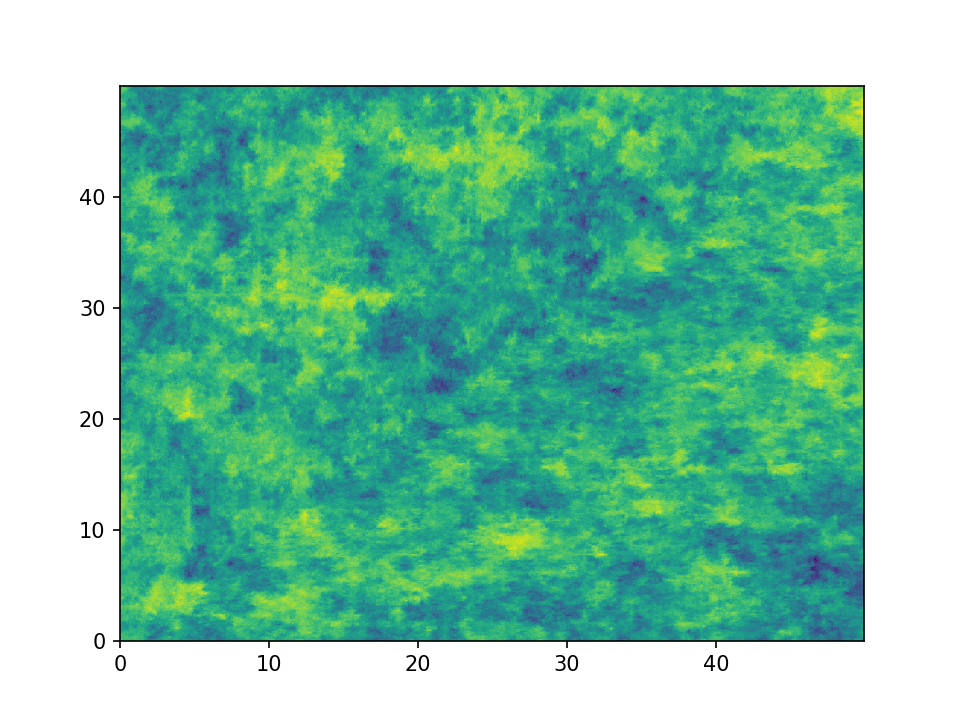
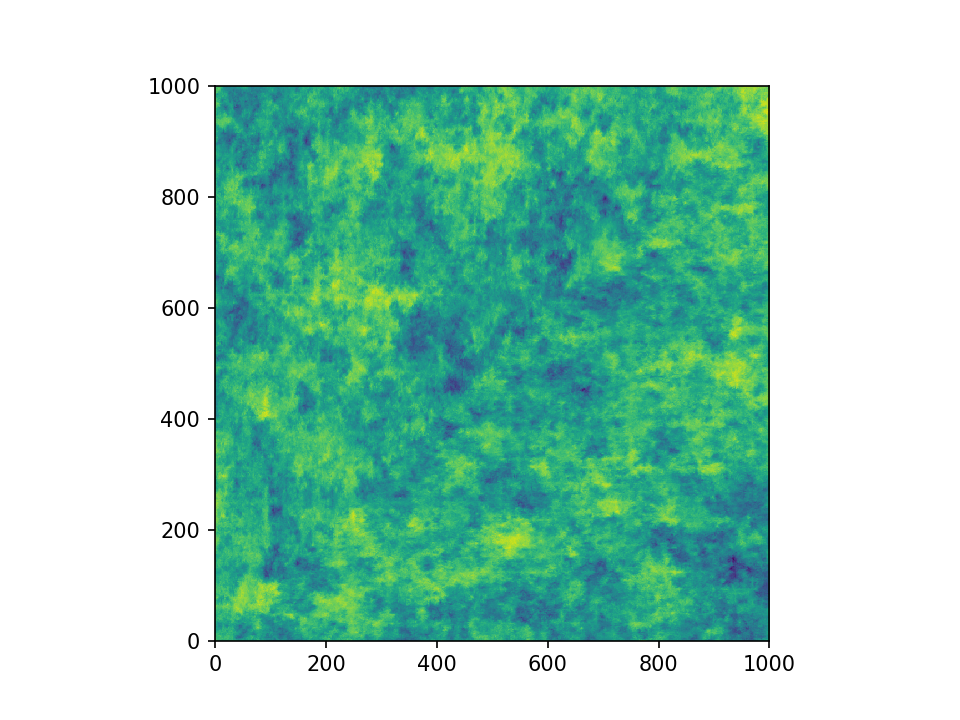
Restructured the tutorials and updated them

diff --git a/examples/08_variogram_estimation.py b/examples/08_variogram_estimation.py
@@ -70,7 +70,7 @@ herten_log_trans = np.log(np.sum(herten_cond, axis=2) * grid['dz'])
 x_s = np.arange(grid['ox'], grid['nx']*grid['dx'], grid['dx'])
 y_s = np.arange(grid['oy'], grid['ny']*grid['dy'], grid['dy'])
 
-pt.pcolormesh(x_s, y_s, herten_log_trans.T)
+pt.imshow(herten_log_trans.T, origin='lower', aspect='equal')
 pt.show()
 
 # create an unstructured grid for the variogram estimation

diff --git a/docs/source/tutorial_03_vario.rst b/docs/source/tutorial_03_vario.rst
@@ -1,4 +1,4 @@
-Tutorial 3: Variogram estimation
+Tutorial 3: Variogram Estimation
 ================================
 
 Estimating the spatial correlations is an important part of geostatistics.
@@ -146,7 +146,7 @@ Let's have a look at the transmissivity field of the Herten aquifer
 
 .. code-block:: python
 
-    pt.pcolormesh(x_s, y_s, herten_log_trans.T)
+    pt.imshow(herten_log_trans.T, origin='lower', aspect='equal')
     pt.show()
 
 .. image:: pics/vario_tut_herten.png
@@ -167,16 +167,16 @@ simply flatten it with :any:`numpy.ndarray.flatten`, in order to bring it into
 the right shape. It might be more memory efficient to use
 ``herten_log_trans.reshape(-1)``, but for better readability, we will stick to
 :any:`numpy.ndarray.flatten`. Taking all data points into account would take a
-very long time (expert knowledge \*twinkle\*), thus we will only take 2000 datapoints into account, which are sampled randomly. In order to make the exact
+very long time (expert knowledge \*wink\*), thus we will only take 2000 datapoints into account, which are sampled randomly. In order to make the exact
 results reproducible, we can also set a seed.
 
 .. code-block:: python
 
-    from gstools import estimate_unstructured
+    from gstools import vario_estimate_unstructured
 
     bins = np.linspace(0, 10, 50)
     print('Estimating unstructured variogram')
-    bin_center, gamma = estimate_unstructured(
+    bin_center, gamma = vario_estimate_unstructured(
         (x_u, y_u),
         herten_log_trans.flatten(),
         bins,
@@ -251,10 +251,10 @@ the x- and y-axis
 
 .. code-block:: python
 
-    from gstools import estimate_structured
+    from gstools import vario_estimate_structured
     print('Estimating structured variograms')
-    gamma_x = estimate_structured(herten_trans_log, direction='x')[:21]
-    gamma_y = estimate_structured(herten_trans_log, direction='y')[:21]
+    gamma_x = vario_estimate_structured(herten_trans_log, direction='x')[:21]
+    gamma_y = vario_estimate_structured(herten_trans_log, direction='y')[:21]
 
 With these two estimated variograms, we can start fitting :any:`Exponential`
 covariance models

diff --git a/docs/source/index.rst b/docs/source/index.rst
@@ -6,8 +6,9 @@ GSTools Quickstart
    :width: 150px
    :align: center
 
-GeoStatTools is a library providing geostatistical tools for random field generation and
-variogram estimation based on a list of provided or even user-defined covariance models.
+GeoStatTools provides geostatistical tools for random field generation and
+variogram estimation based on many readily provided and even user-defined
+covariance models.
 
 
 Installation

diff --git a/docs/source/tutorial_01_srf.rst b/docs/source/tutorial_01_srf.rst
@@ -1,4 +1,4 @@
-Tutorial 2: Random Field Generation
+Tutorial 1: Random Field Generation
 ===================================
 
 The main feature of GSTools is the spatial random field generator :any:`SRF`,

diff --git a/docs/source/tutorials.rst b/docs/source/tutorials.rst
@@ -8,6 +8,6 @@ explore its whole beauty and power.
 .. toctree::
    :maxdepth: 1
 
-   tutorial_01_cov.rst
-   tutorial_02_srf.rst
+   tutorial_01_srf.rst
+   tutorial_02_cov.rst
    tutorial_03_vario.rst

diff --git a/docs/source/tutorial_02_cov.rst b/docs/source/tutorial_02_cov.rst
@@ -1,4 +1,4 @@
-Tutorial 1: The Covariance Model
+Tutorial 2: The Covariance Model
 ================================
 
 One of the core-features of GSTools is the powerful :any:`CovModel`
